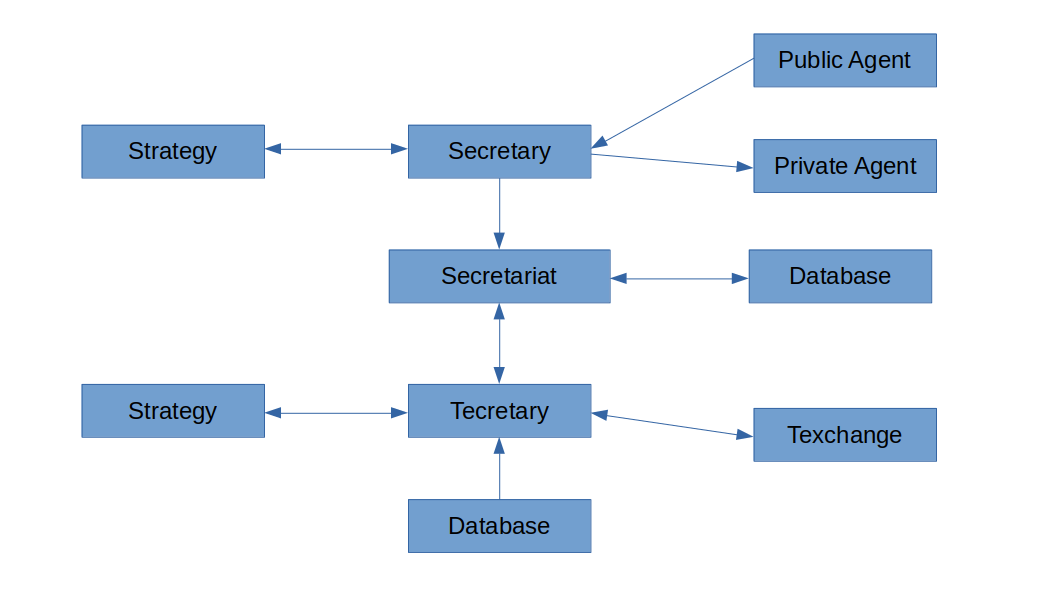
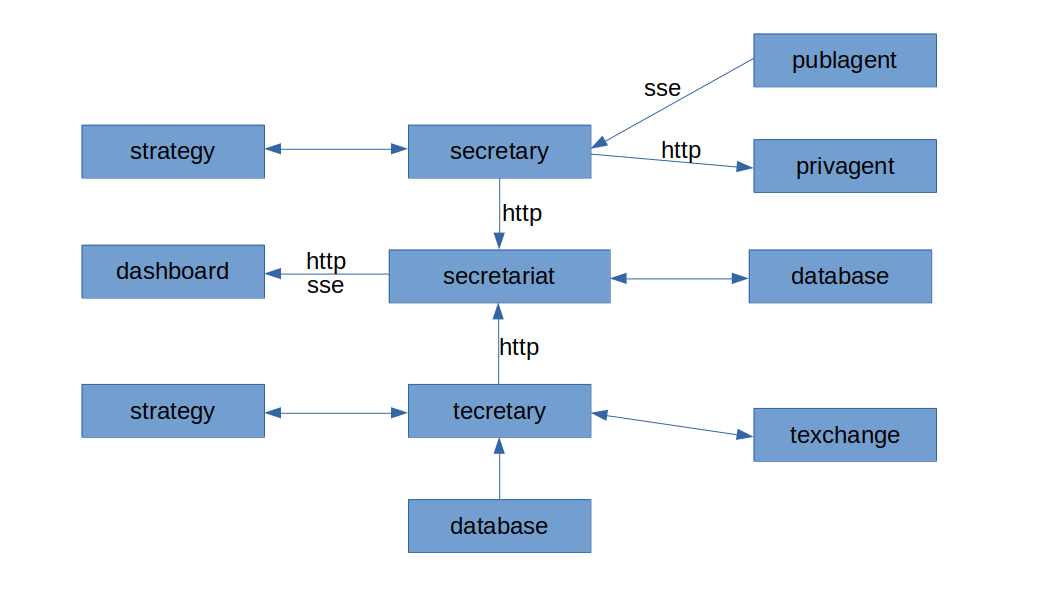
dev

diff --git a/README.md b/README.md
@@ -1,76 +1,75 @@
-# BitHub
+# bithub
 
 ## 架构
 
-整个项目分为以下模块
+bithub 分为以下组件
 
-- Public Agents
-- Private Agents
-- [Redirector](https://github.com/bithub-framework/redirector)
-- Secretaries
-    - [JavaScript](https://github.com/bithub-framework/secretary-js)
-- Strategies
-- [Secretariat](https://github.com/bithub-framework/secretariat)
-- [Tecretary](https://github.com/bithub-framework/tecretary)
-- [Texchange](https://github.com/bithub-framework/texchange)
-- Monitor
-- Night Vision
+- agent
+    - publagent
+    - privagent
+- [secretary](https://github.com/bithub-framework/secretary)
+- strategy
+- [secretariat](https://github.com/bithub-framework/secretariat)
+- [tecretary](https://github.com/bithub-framework/tecretary)
+- [texchange](https://github.com/bithub-framework/texchange)
+- dashboard
 
 ![architecture](./arch.png)
 
-### Public Agents
+### publagent
 
-每个交易所有一个 Public Agent 程序，每个程序运行一个实例。用于获取该交易所中多个市场的行情数据，并转换为统一 websocket 接口。
+每个交易所都有一个 publagent 程序，每个程序运行一个实例。用于获取该交易所中多个市场的行情数据，并转换为统一接口。
 
-### Private agents
+### privagent
 
-每个交易所有一个 Private Agent 程序，每一个账户运行一个实例。用于发送交易指令，并提供统一接口。
+每个交易所有一个 privagent 程序，每一个账户运行一个实例。用于发送交易指令，并提供统一接口。
 
-之所以把 Private Agents 设计为 daemon 而不是 bindings，是为了让 Private Agents 可以跨语言开发。
+之所以把 privagent 设计为 daemon 而不是 bindings，是为了让 privagent 可以跨语言开发。
 
-### Redirector
+### secretary
 
-每个需要被别人连接的实例，在启动时将自己提供的服务的名称和地址注册到 Redirector 用于别人连接时重定向。这样就不需要给每个被连接实例一个固定端口。
+秘书程序以策略模式调用策略，向策略提供交互接口。
 
-之所以不用中介程序转发数据是因为 Private Agent 连接中介时中介是 server，从 server 向作为 client 的 Private Agent 发请求很麻烦
+一个秘书可能连接多个市场。
 
-- http 不能从 server 向 client 发请求
-- websocket 不支持 req/res pattern
-- 中心化动态注册的 websocket 子协议 WAMP 协议太小众。
-- socket.io 的 res 是以 callback 的形式而不是专用的 req/res pattern，如果不 res 不会自动报错
-- dubbo/grpc/hprose/thrift/tars 等主流 rpc 框架似乎均不支持 server 向 client 发请求
-- 支持 server 向 client 发请求的 rpc 框架 dnode 不能跨语言
+秘书将交易状态信息主动提供给秘书处接。
 
-### Secretary
-
-秘书程序有多个，每种语言一个，以策略模式调用策略，向策略提供交互接口。一个秘书可能连接多个市场，这是为了支持套利策略。
-
-秘书将交易状态信息主动提供给秘书处，秘书与秘书处使用 http 持久连接。
-
-### Strategy
+### strategy
 
 每一个策略都是一个不能独立运行的程序模块，以策略模式被秘书调用。
 
-### Tecretary
+### tecretary
 
-Tecretary 是回测专用秘书，每种语言一个，对策略暴露的接口与 secretary 完全相同。
+tecretary 是回测专用秘书，对策略暴露的接口与 secretary 完全相同。
 
-Tecretary 调用 Techange 作为模拟交易所。
+tecretary 调用多个 texchange 作为模拟交易所。
 
-### Texchange
+### texchange
 
-Texchange 是一个模拟交易所，同时担任 Public Agent 和 Private Agent，是 Tecretary 的组件。
+texchange 是一个模拟交易所，是 tecretary 的组件。
 
-### Secretariat
+### secretariat
 
-秘书处是一个单例 daemon，整合各个秘书的交易信息持久化并被动提供给监控台。
+秘书处是一个单例 daemon，整合各个秘书的交易信息持久化并被动提供给仪表盘。
 
 秘书开始运行时向秘书处注册自己。
 
-### Monitor
+### dashboard
 
-监控台是一个 webapp，用于可视化实时运行状态。
+仪表盘是一个 webapp，用于可视化实时运行状态和本地数据。
 
-### Night Vision
+## secretary 连接到 agent
 
-夜视仪是一个 webapp，用于可视化本地数据。
+### 为什么不用消息队列代理 publagent
+
+与「一对多发布订阅模型」相比，「多对多发布订阅模型」在语义上最大的区别在于，订阅者只关心事件，不关心发布者是谁，更不关心发布者的状态。
+
+秘书作为订阅者很关心 publagent 的状态，其数学模型属于「一对多发布订阅模型」，只有直连发布者才符合其语义。而消息队列是对「多对多发布订阅模型」的实现，用消息队列会使语义与实现不一致，临床表现为如果 publagent 挂了秘书不知道。
+
+### 服务发现
+
+为了使 publagent 和 privagent 可插拔，本来应该整个 rpc 框架来实现 agent 的服务发现，但感觉杀鸡用牛刀。反正我也没打算让 agent 跨主机，所以就找个目录统一存放 socket 文件作为服务注册。
+
+### 为什么秘书不用 websocket 连接 agent
+
+websocket 的语义仅仅是「双向数据流」，要想实现「发布订阅模型」还得自己在 websocket 之上再实现一层。虽然也不是不行，但感觉像宰牛用剪刀。
